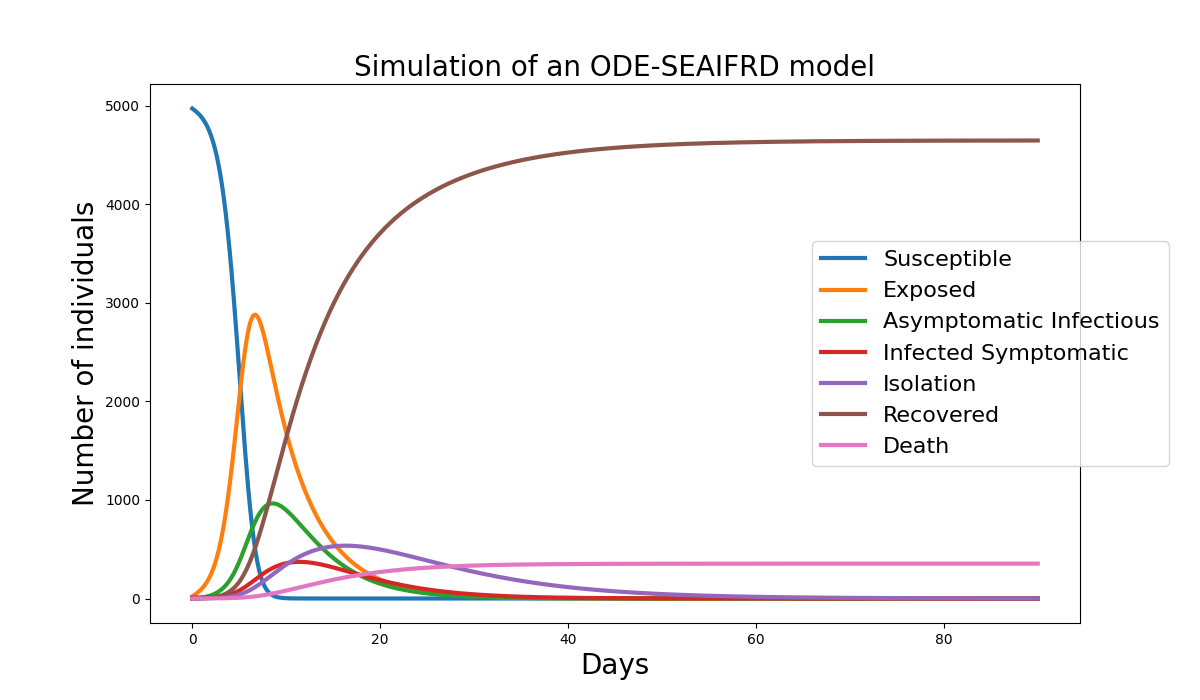
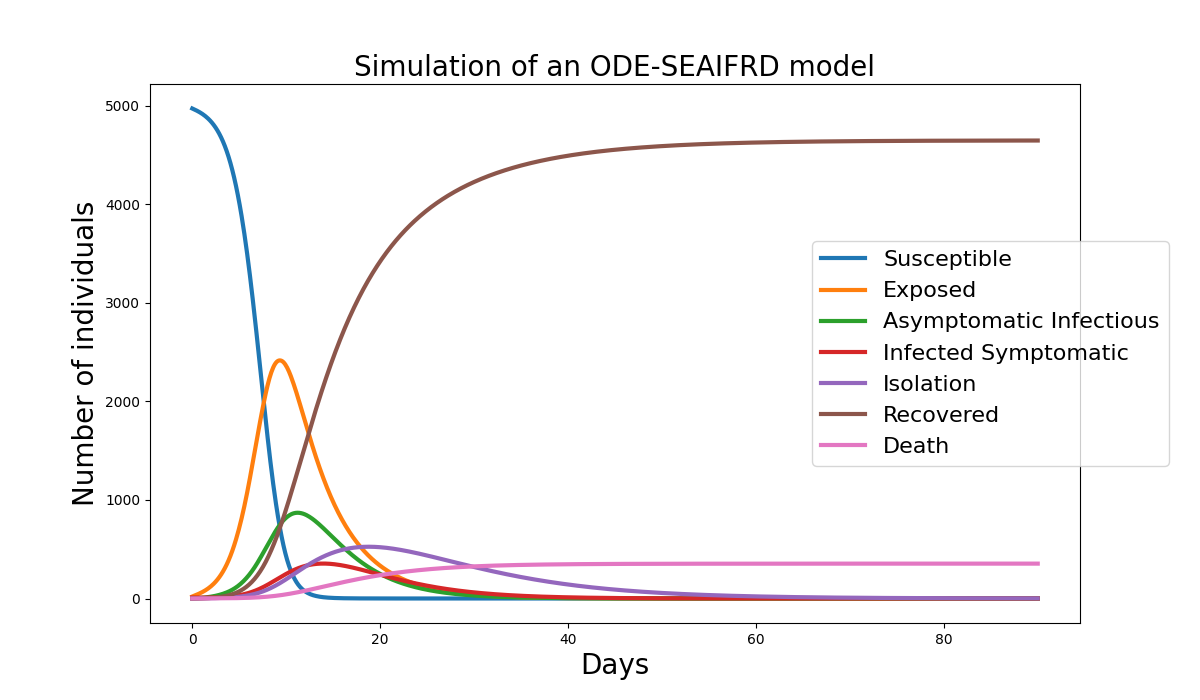
ODEint-RK45

Changed region(s): [[0.1542, 0.15, 0.6475, 0.87]]

diff --git a/SI_Mod/SEAIFRD.py b/SI_Mod/SEAIFRD.py
@@ -1,7 +1,6 @@
 import numpy as np
 import matplotlib.pyplot as plt
 from scipy import integrate
-# from derivatives import derivative
 from Derivative import derivative
 
 if __name__ == "__main__":
@@ -14,7 +13,7 @@ if __name__ == "__main__":
     D0 = 0  # Initial number of death cases
     S0 = total_population - E0 - A0 - I0 - F0 - R0 - D0  # Susceptible individuals
 
-    contacts = 10  # number of contacts in standard case
+    contacts = 6  # number of contacts in standard case
     transmission_prob = 0.716  # transmission probability
     exposed_period = 4.6  # Mean exposed period
     asymptomatic_period = 2.17  # Mean asymptomatic infectious period# reference 46 p9
@@ -36,27 +35,27 @@ if __name__ == "__main__":
 
     t = np.linspace(0, tmax, (tmax + 1) * 10)
     fig, ax = plt.subplots(figsize=[12, 7])
-
-    solution_seaifrd = integrate.odeint(derivative, [S0, E0, A0, I0, F0, R0, D0], t,
+    initial_conditions = [S0, E0, A0, I0, F0, R0, D0]
+    solution_seaifrd = integrate.solve_ivp(derivative, [0, tmax],initial_conditions, t_eval=t,
                                         args=(contacts, transmission_prob, total_population, reducing_transmission,
                                               exposed_period, asymptomatic_period, infectious_period,
                                               isolated_period, prob_asymptomatic,
-                                              prob_quarant_inf, test_asy, dev_symp, mortality_isolated,mortality_infected), tfirst=True)
+                                              prob_quarant_inf, test_asy, dev_symp, mortality_isolated,mortality_infected), method='RK45')
 
-    total_infections = total_population - solution_seaifrd[-1, 0]
+    total_infections = total_population - solution_seaifrd.y[-1, 0]
 
-    ax.plot(t, solution_seaifrd[:, 0], label='Susceptible', linewidth=3)
-    ax.plot(t, solution_seaifrd[:, 1], label='Exposed', linewidth=3)
-    ax.plot(t, solution_seaifrd[:, 2], label='Asymptomatic Infectious', linewidth=3)
-    ax.plot(t, solution_seaifrd[:, 3], label='Infected Symptomatic', linewidth=3)
-    ax.plot(t, solution_seaifrd[:, 4], label='Isolation', linewidth=3)
-    ax.plot(t, solution_seaifrd[:, 5], label='Recovered', linewidth=3)
-    ax.plot(t, solution_seaifrd[:, 6], label='Death', linewidth=3)
+    ax.plot(t, solution_seaifrd.y[0], label='Susceptible', linewidth=3)
+    ax.plot(t, solution_seaifrd.y[1], label='Exposed', linewidth=3)
+    ax.plot(t, solution_seaifrd.y[2], label='Asymptomatic Infectious', linewidth=3)
+    ax.plot(t, solution_seaifrd.y[3], label='Infected Symptomatic', linewidth=3)
+    ax.plot(t, solution_seaifrd.y[4], label='Isolation', linewidth=3)
+    ax.plot(t, solution_seaifrd.y[5], label='Recovered', linewidth=3)
+    ax.plot(t, solution_seaifrd.y[6], label='Death', linewidth=3)
 
-    ax.set_xlabel('Days', fontsize=fslarge)
-    ax.set_ylabel('Number of individuals', fontsize=fslarge)
-    ax.set_title('Simulation of an ODE-SEAIFRD model', fontsize=fslarge)
-    ax.legend(fontsize=fssmall, loc='center left', bbox_to_anchor=(0.7, 0.5))#1,.5
+    ax.set_xlabel('Days', fontsize=20)
+    ax.set_ylabel('Number of individuals', fontsize=20)
+    ax.set_title('Simulation of an ODE-SEAIFRD model', fontsize=20)
+    ax.legend(fontsize=16, loc='center left', bbox_to_anchor=(0.7, 0.5))
 
     plt.savefig('Simulation_Model')
     plt.tight_layout()
